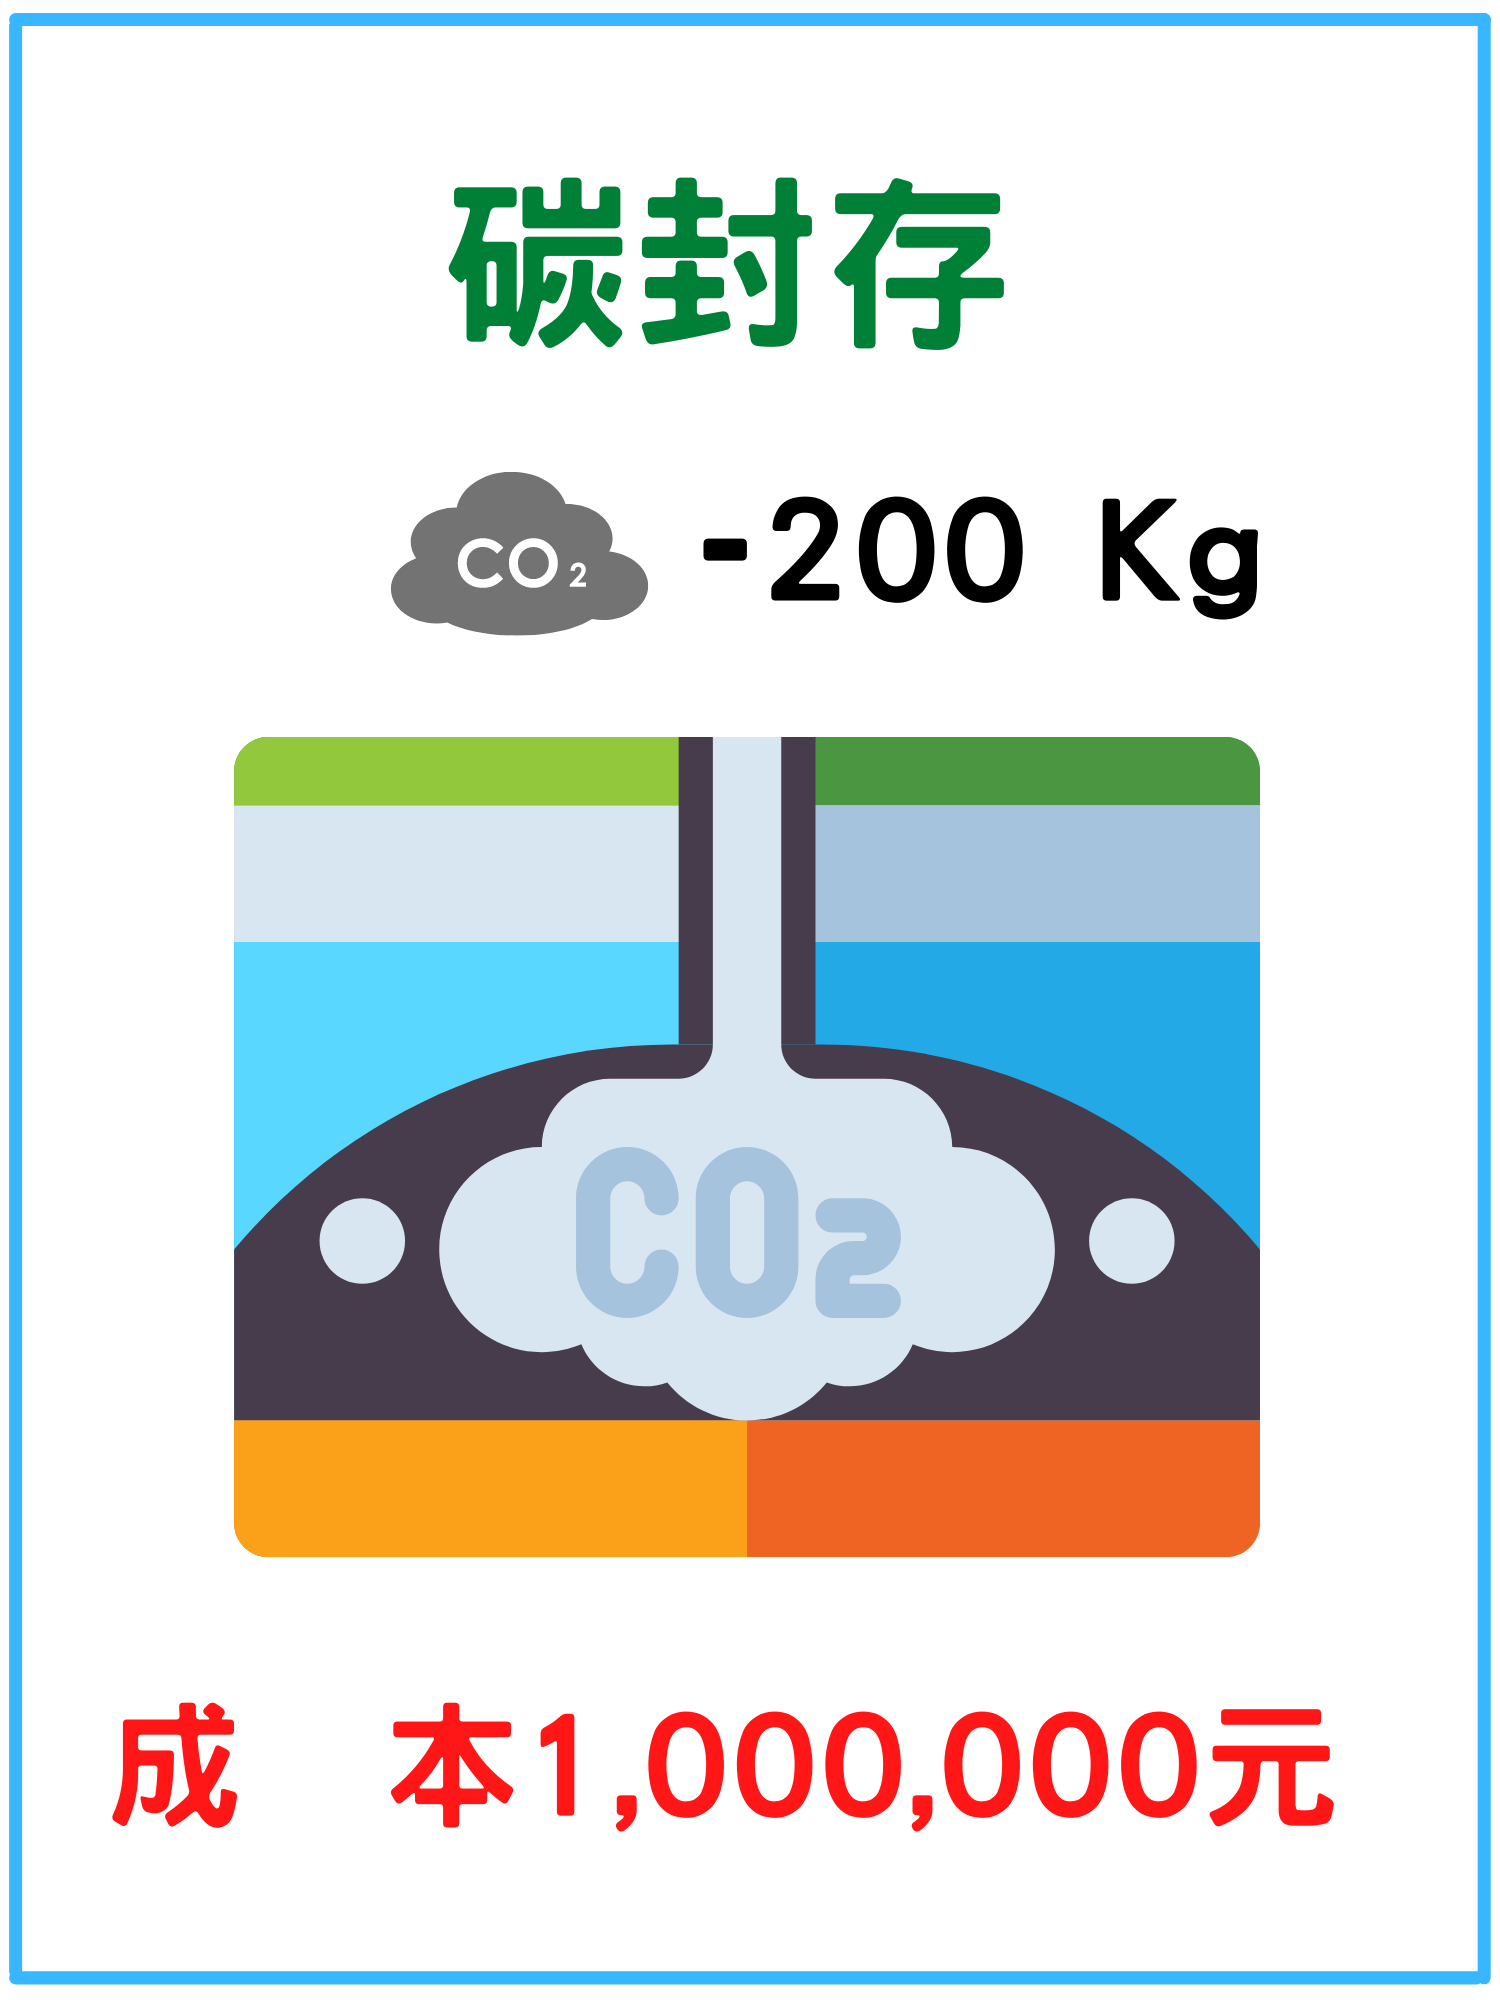
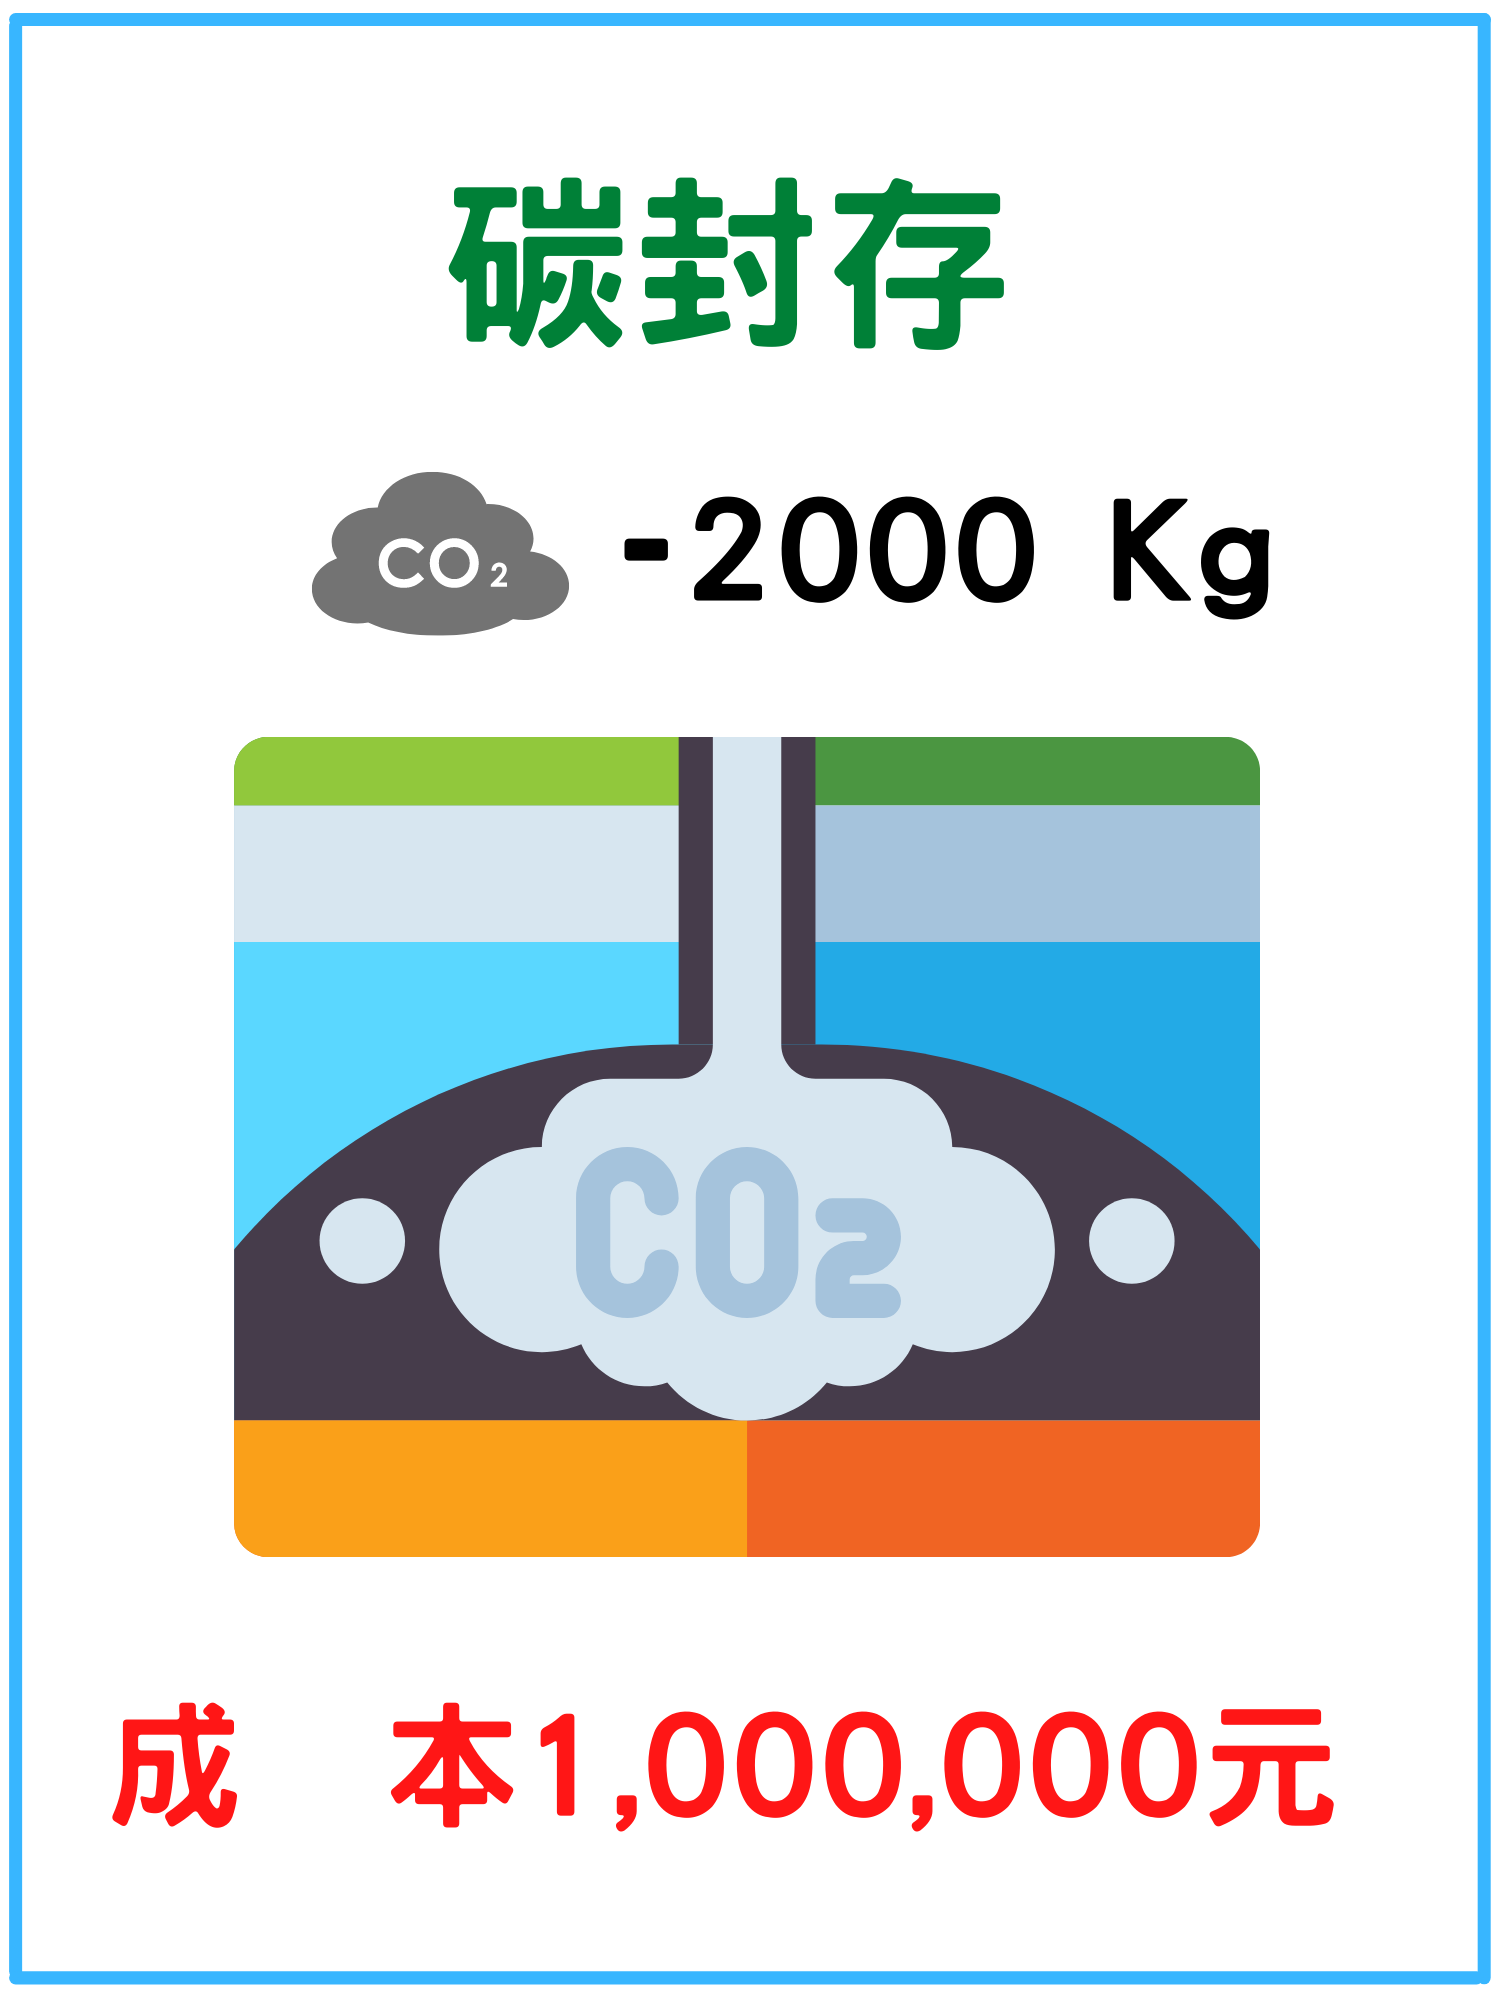
Add files via upload

Changed region(s): [[0.184, 0.217, 0.7053, 0.341], [0.736, 0.248, 0.8587, 0.31]]

diff --git a/index.html b/index.html
@@ -826,9 +826,9 @@ function png27(){
    if(totalMoney>=1000000){
 
    	totalMoney=totalMoney-1000000;
-   	annualcarbonEmission=annualcarbonEmission-200;
+   	annualcarbonEmission=annualcarbonEmission-2000;
 
-   	 alert("已進行碳封存，每年碳排放將減少200公斤");
+   	 alert("已進行碳封存，每年碳排放將減少2000公斤");
 
 	document.getElementById("totalMoney").innerHTML=totalMoney+" 元";
 
